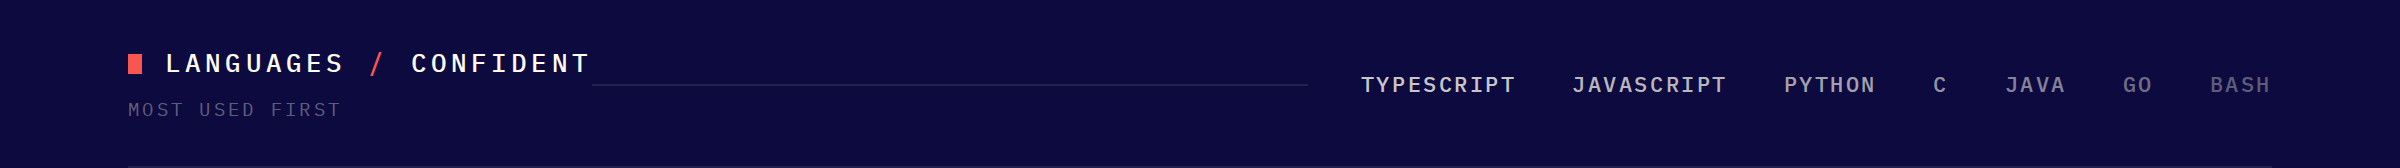
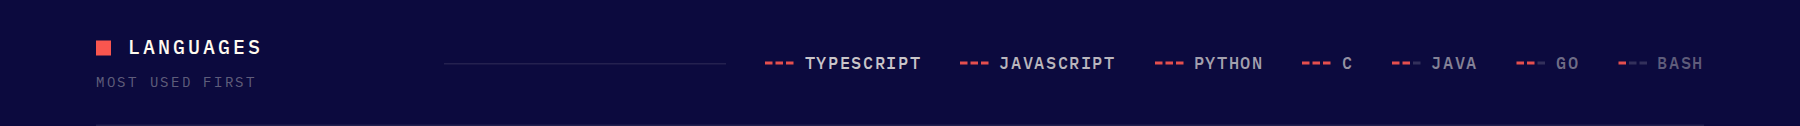
Scroll the stack in two rows and mark language levels

Changed region(s): [[0.4044, 0.4524, 0.9333, 0.5476], [0.0622, 0.3095, 0.2489, 0.4286], [0.0622, 0.5952, 0.1556, 0.6905]]

diff --git a/assets/readme/prototype/stats.py b/assets/readme/prototype/stats.py
@@ -1,15 +1,16 @@
 #!/usr/bin/env python3
 """Render the two data rails that sit between the header and the project
-plates: an animated technology strip and a language line counter.
+plates: a two-row technology marquee and a language line.
 
-The strip lays 24 technologies over four rows — web, data, infra and tools — and
-sends a slow diagonal scan across them. The icons are Simple Icons paths in the
-deck's coral; the scan only lifts their brightness. The language line reads the
-same pygount snapshot (loc.json) and shows only the names, in order of use, so it
-signals fluency without turning into a line-count contest.
+The strip runs 24 technologies through two full-width rows that scroll in
+opposite directions. The icons are Simple Icons paths in the deck's coral; there
+is no title, count or active state. The language line reads the same pygount
+snapshot (loc.json), keeps only the names in order of use, and puts a three-step
+meter beside each one.
 
-Both boards use the deck's ambient palette and type, render at 2x, and stack
-flush with the header and plates.
+Both boards use the deck's ambient palette and type, render high-density, and
+stack flush with the header and plates. The marquee is captured at 1.5x and
+downscaled to 900 × 126 so the loop stays under a megabyte.
 
     python3 assets/readme/prototype/stats.py
 """
@@ -29,7 +30,6 @@ BUILD = HERE.parent / ".build" / "stats"
 
 NAVY = "#0c0a3e"
 CORAL = "#f9564f"
-DEEP = "#dd453d"
 PAPER = "#fffaf0"
 
 TECH_ROWS = (
@@ -67,14 +67,29 @@ TECH_ROWS = (
     ),
 )
 
+ROW_TOP = TECH_ROWS[0] + TECH_ROWS[1]
+ROW_BOTTOM = TECH_ROWS[2] + TECH_ROWS[3]
+
 ICONS = json.loads((HERE / "tech-icons.json").read_text())
 
-FPS = 25
-COLS = 6
-CELLS = sum(len(row) for row in TECH_ROWS)
-FRAMES = 225
+FPS = 12.5
+LOOP_SECONDS = 10
+FRAMES = int(FPS * LOOP_SECONDS)
+SCALE = 1.5
+OUT_WIDTH = 900
+OUT_HEIGHT = 126
+COLORS = 32
 
 LANG_DISPLAY = {"Other": "Bash"}
+LANG_LEVELS = {
+    "TypeScript": 3,
+    "JavaScript": 3,
+    "Python": 3,
+    "C": 3,
+    "Java": 2,
+    "Go": 2,
+    "Bash": 1,
+}
 
 
 def font_faces() -> str:
@@ -95,17 +110,17 @@ def font_faces() -> str:
 """
 
 
-def cells_html() -> str:
-    cells = []
-    for row in TECH_ROWS:
-        for label, slug in row:
-            path = ICONS[slug]
-            cells.append(
-                '<div class="cell">'
-                f'<svg class="ico" viewBox="0 0 24 24" aria-hidden="true"><path d="{path}"/></svg>'
-                f'<span class="name">{label}</span></div>'
-            )
-    return "".join(cells)
+def marquee_items(row: tuple) -> str:
+    items = []
+    for label, slug in row:
+        path = ICONS[slug]
+        items.append(
+            '<div class="item">'
+            f'<svg class="ico" viewBox="0 0 24 24" aria-hidden="true"><path d="{path}"/></svg>'
+            f'<span class="name">{label}</span>'
+            '<span class="dot"></span></div>'
+        )
+    return "".join(items) * 2
 
 
 def strip_document() -> str:
@@ -117,89 +132,74 @@ body {{ width: 1200px; font-family: 'Plex Mono', monospace; -webkit-font-smoothi
 .strip {{
   position: relative;
   width: 1200px; height: 168px;
-  padding: 0 64px;
-  display: grid;
-  grid-template-columns: 232px minmax(0, 1fr);
-  align-items: center;
+  display: flex; flex-direction: column; justify-content: center;
+  gap: 24px;
+  overflow: hidden;
   background: {NAVY};
   color: {PAPER};
 }}
 .strip::after {{
   content: ''; position: absolute; left: 64px; right: 64px; bottom: 0;
-  height: 1px; background: rgba(255, 250, 240, 0.09);
+  height: 1px; background: rgba(255, 250, 240, 0.09); z-index: 3;
 }}
-.kicker {{
-  display: flex; align-items: center; gap: 11px;
-  font-size: 13px; font-weight: 500; letter-spacing: 0.16em;
-  text-transform: uppercase; color: {PAPER};
+.row {{ width: 100%; overflow: hidden; }}
+.track {{
+  display: flex; align-items: center;
+  width: max-content;
+  will-change: transform;
 }}
-.kicker .mark {{ width: 10px; height: 10px; background: {CORAL}; }}
-.kicker .slash {{ color: {CORAL}; }}
-.sub {{
-  margin-top: 9px;
-  font-size: 9.5px; letter-spacing: 0.12em; text-transform: uppercase;
-  color: rgba(255, 250, 240, 0.36);
-}}
-.grid {{
-  display: grid;
-  grid-template-columns: repeat(6, minmax(0, 1fr));
-  column-gap: 22px;
-  grid-auto-rows: 36px;
-}}
-.cell {{
-  position: relative;
-  display: flex; align-items: center; gap: 7px;
-  min-width: 0;
-  border-bottom: 1px solid rgba(255, 250, 240, 0.13);
+.item {{
+  display: flex; align-items: center; gap: 9px;
+  margin-right: 52px;
+  white-space: nowrap;
 }}
 .ico {{
   flex: none;
-  width: 18px; height: 18px;
+  width: 22px; height: 22px;
   fill: {CORAL};
-  opacity: 0.42;
-  will-change: opacity;
+  opacity: 0.9;
 }}
-.cell .name {{
-  overflow: hidden;
-  font-size: 11px; font-weight: 500; letter-spacing: 0.03em;
-  line-height: 1; text-transform: uppercase; white-space: nowrap;
+.name {{
+  font-size: 12px; font-weight: 500; letter-spacing: 0.05em;
+  line-height: 1; text-transform: uppercase;
   color: {PAPER};
-  opacity: 0.52;
+  opacity: 0.66;
 }}
+.dot {{ width: 3px; height: 3px; background: {CORAL}; opacity: 0.5; }}
+.fade {{
+  position: absolute; top: 0; bottom: 0; width: 140px; z-index: 2;
+  pointer-events: none;
+}}
+.fade.l {{ left: 0; background: linear-gradient(90deg, {NAVY} 0%, rgba(12, 10, 62, 0.9) 34%, rgba(12, 10, 62, 0) 100%); }}
+.fade.r {{ right: 0; background: linear-gradient(270deg, {NAVY} 0%, rgba(12, 10, 62, 0.9) 34%, rgba(12, 10, 62, 0) 100%); }}
 </style></head><body>
 <div class="strip">
-  <div class="pin">
-    <div class="kicker"><span class="mark"></span>Stack <span class="slash">/</span> Used</div>
-    <div class="sub">24 technologies · shipped</div>
-  </div>
-  <div class="grid">{cells_html()}</div>
+  <div class="row"><div class="track">{marquee_items(ROW_TOP)}</div></div>
+  <div class="row"><div class="track">{marquee_items(ROW_BOTTOM)}</div></div>
+  <div class="fade l"></div>
+  <div class="fade r"></div>
 </div>
 <script>
-const COLS = {COLS};
 const FRAMES = {FRAMES};
-const cells = Array.from(document.querySelectorAll('.cell'));
+const tracks = Array.from(document.querySelectorAll('.track'));
 function setFrame(frame) {{
   const t = frame / FRAMES;
-  const u = Math.min(1, t / 0.86);
-  const band = -1 + u * 9.5;
-  let env;
-  if (u < 0.12) env = u / 0.12;
-  else if (u > 0.88) env = (1 - u) / 0.12;
-  else env = 1;
-  cells.forEach((cell, i) => {{
-    const col = i % COLS;
-    const row = Math.floor(i / COLS);
-    const x = col + row * 0.6;
-    let prox = 1 - Math.abs(x - band) / 1.5;
-    prox = Math.max(0, Math.min(1, prox));
-    prox = prox * prox * (3 - 2 * prox);
-    const wave = Math.round(prox * env * 16) / 16;
-    const ico = cell.querySelector('.ico');
-    ico.style.opacity = (0.42 + 0.58 * wave).toFixed(3);
+  tracks.forEach((track, i) => {{
+    const half = track.getBoundingClientRect().width / 2;
+    const x = i === 0 ? -t * half : -half + t * half;
+    track.style.transform = `translate3d(${{x.toFixed(2)}}px, 0, 0)`;
   }});
 }}
 </script>
 </body></html>"""
+
+
+def meter(level: int) -> str:
+    ticks = "".join(
+        f'<span class="tick{" on" if i < level else ""}"></span>'
+        for i in range(3)
+    )
+    return f'<span class="meter">{ticks}</span>'
 
 
 def language_line(data: dict) -> str:
@@ -207,8 +207,10 @@ def language_line(data: dict) -> str:
     for i, entry in enumerate(data["languages"]):
         name = LANG_DISPLAY.get(entry["name"], entry["name"])
         alpha = max(0.34, 0.80 - i * 0.075)
+        level = LANG_LEVELS.get(name, 1)
         items.append(
-            f'<span class="lang" style="color:rgba(255,250,240,{alpha:.2f})">{name}</span>'
+            f'<span class="lang" style="color:rgba(255,250,240,{alpha:.2f})">'
+            f'{meter(level)}<span class="lname">{name}</span></span>'
         )
     return "".join(items)
 
@@ -239,7 +241,6 @@ body {{ width: 1200px; font-family: 'Plex Mono', monospace; -webkit-font-smoothi
   text-transform: uppercase; color: {PAPER};
 }}
 .kicker .mark {{ width: 10px; height: 10px; background: {CORAL}; }}
-.kicker .slash {{ color: {CORAL}; }}
 .sub {{
   margin-top: 8px;
   font-size: 9.5px; letter-spacing: 0.12em; text-transform: uppercase;
@@ -251,14 +252,19 @@ body {{ width: 1200px; font-family: 'Plex Mono', monospace; -webkit-font-smoothi
   background: rgba(255, 250, 240, 0.10);
 }}
 .lang {{
+  display: flex; align-items: center; gap: 7px;
   font-size: 11px; font-weight: 500; letter-spacing: 0.07em;
   line-height: 1; text-transform: uppercase; white-space: nowrap;
 }}
-.lang + .lang {{ margin-left: 28px; }}
+.lang + .lang {{ margin-left: 26px; }}
+.meter {{ display: inline-flex; align-items: center; gap: 2px; }}
+.tick {{ width: 5px; height: 2px; background: rgba(255, 250, 240, 0.16); }}
+.tick.on {{ background: {CORAL}; opacity: 0.92; }}
+.lname {{ line-height: 1; }}
 </style></head><body>
 <div class="line">
   <div class="pin">
-    <div class="kicker"><span class="mark"></span>Languages <span class="slash">/</span> Confident</div>
+    <div class="kicker"><span class="mark"></span>Languages</div>
     <div class="sub">most used first</div>
   </div>
   <div class="langs">{language_line(data)}</div>
@@ -289,11 +295,12 @@ def assemble_gif() -> None:
     out = HERE / "deck-stack.gif"
     palette = BUILD / "palette.png"
     frames = BUILD / "frames" / "frame-%03d.png"
+    scale = f"scale={OUT_WIDTH}:{OUT_HEIGHT}:flags=lanczos"
     subprocess.run(
         [
             "ffmpeg", "-y", "-loglevel", "error",
             "-framerate", str(FPS), "-i", str(frames),
-            "-vf", "palettegen=max_colors=64:stats_mode=diff",
+            "-vf", f"{scale},palettegen=max_colors={COLORS}:stats_mode=diff",
             str(palette),
         ],
         check=True,
@@ -302,7 +309,7 @@ def assemble_gif() -> None:
         [
             "ffmpeg", "-y", "-loglevel", "error",
             "-framerate", str(FPS), "-i", str(frames), "-i", str(palette),
-            "-lavfi", "paletteuse=dither=none:diff_mode=rectangle",
+            "-lavfi", f"{scale},paletteuse=dither=none:diff_mode=rectangle",
             "-loop", "0", str(out),
         ],
         check=True,
@@ -331,7 +338,7 @@ def main() -> None:
         browser = playwright.chromium.launch()
         page = browser.new_page(
             viewport={"width": 1200, "height": 168},
-            device_scale_factor=2,
+            device_scale_factor=SCALE,
         )
         render_strip(page)
         assemble_gif()

diff --git a/README.md b/README.md
@@ -1,3 +1,3 @@
 <!-- Private review: the full image-only deck with a custom flat illustration on every project card. A live stack strip and a quiet language line sit between the header and the plates. The Space card shows the seeded height field and core sample; born2beroot shows a VM window on a hypervisor host. The public profile is untouched. -->
 
-<p align="center"><a href="https://github.com/edouwarden" title="Edouard Normand on GitHub"><img align="top" src="assets/readme/00-header.png" width="100%" alt="Edouard Normand — software engineer at 42 Paris. I build systems end to end: bare metal, networks, engines, and AI agents. 13 years coding, 2,000+ players served, 214 peer reviews, €0 infra bill."></a><a href="https://github.com/edouwarden?tab=repositories" title="Stack used"><img align="top" src="assets/readme/prototype/deck-stack.gif" width="100%" alt="Stack used across the deck: Next.js, React, Three.js, Vite, Tailwind, Bun, Hono, Node.js, WordPress, Postgres, SQLite, MariaDB, Docker, Nginx, Linux, Debian, VirtualBox, OpenSSL, Let's Encrypt, Git, GitHub, GH Actions, npm and VS Code, lit by a slow diagonal scan."></a><a href="https://github.com/edouwarden?tab=repositories" title="Lines of code"><img align="top" src="assets/readme/prototype/deck-languages.png" width="100%" alt="Languages I'm confident in, most used first: TypeScript, JavaScript, Python, C, Java, Go and Bash."></a><a href="https://github.com/edouwarden/dynamic-dashboard" title="dynamic-dashboard on GitHub"><img align="top" src="assets/readme/prototype/plate-01.png" width="100%" alt="01 dynamic-dashboard, 2026, solo product and full stack: a local-first dashboard builder with isolated HTML widgets on one SQLite database, edited by an agent; 28 starter widgets, 6 example tabs, 1 shared DB; Bun, Hono, SQLite, Vanilla JS, OpenCode. Opens the repository."></a><a href="https://github.com/edouwarden/Transcendence-WebGameEngine" title="ft_transcendence on GitHub"><img align="top" src="assets/readme/prototype/plate-02.png" width="100%" alt="02 ft_transcendence, 2026, team of four, engine and platform: a browser game engine on Three.js with World, Environment and Module layers, physics, editors and live tools, running a parkour arena; 4 engine layers, 4 course maps, 20 Hz net tick; Next.js, Three.js, Rapier, Bun, Go, PostgreSQL. Opens the repository."></a><a href="https://github.com/edouwarden/space-gameserver-2019-psr" title="space-gameserver on GitHub"><img align="top" src="assets/readme/prototype/plate-03.png" width="100%" alt="03 space-gameserver, 2019, solo, systems and geometry: a Spigot sandbox whose space and exoplanet terrain comes from a seeded six-octave height field sampled into a core column, ships on an 11 by 11 orbital grid, and five weapon systems as closed-form geometry; 2,000+ members, 5 powers, 11 by 11 orbital slots; Java 8, Paper 1.14.4, WorldEdit, WorldGuard, Python. Opens the repository."></a><a href="https://github.com/edouwarden/minishell" title="minishell on GitHub"><img align="top" src="assets/readme/prototype/plate-04.png" width="100%" alt="04 minishell, 2025, pair, systems and parsing: a Unix shell with quote-aware lexing, expansion, heredocs and 64-stage pipelines, readline only; 3,000 lines of C, 64 pipe stages, 0 zombies; C99, POSIX, fork and exec, dup2, readline. Opens the repository."></a><a href="https://github.com/edouwarden/cube3D" title="cub3D on GitHub"><img align="top" src="assets/readme/prototype/plate-05.png" width="100%" alt="05 cub3D, 2025, pair, rendering and math: a hand-written raycast renderer with 640 rays per frame, textured walls floor to ceiling and every pixel written into an X11 buffer without a GPU; 640 rays per frame, 3 showcase maps, about 60 fps cap; C99, X11, raycasting, XPM, math. Opens the repository."></a><a href="https://github.com/edouwarden/irc" title="ft_irc on GitHub"><img align="top" src="assets/readme/prototype/plate-06.png" width="100%" alt="06 ft_irc, 2026, pair, protocols and systems: an IRC server on one thread and one poll loop with buffered TCP framing, channel modes and a local Phi-3 answering in #ai-lab; 1 thread, 1 poll loop, 3.8B local model; C++98, sockets, poll, llama.cpp. Opens the repository."></a><a href="https://github.com/edouwarden/inception" title="Inception on GitHub"><img align="top" src="assets/readme/prototype/plate-07.png" width="100%" alt="07 Inception, 2026, solo, containers and infrastructure: a WordPress stack where every part is a container, nginx holds TLS, PHP-FPM runs WordPress and MariaDB never leaves the compose network; 3 services, 1 open port, 4 secrets; Docker Compose, NGINX, WordPress, MariaDB, TLS. Opens the repository."></a><a href="https://github.com/edouwarden/born2beroot" title="born2beroot on GitHub"><img align="top" src="assets/readme/prototype/plate-08.png" width="100%" alt="08 born2beroot, 2024, solo, systems and hardening: a reproducible Debian VM running in a guest window on a VirtualBox host, built from a self-made ISO with LUKS under LVM, six filesystems, SSH on port 4242 and every sudo logged; 7 volumes, 1 open port, wall broadcast every 10 minutes; Debian, LUKS, LVM, UFW, systemd. Opens the repository."></a><a href="https://github.com/edouwarden" title="github.com/edouwarden"><img align="top" src="assets/readme/07-footer.png" width="100%" alt="Let's build something. Open to hard problems in Paris, France. github.com/edouwarden."></a></p>
+<p align="center"><a href="https://github.com/edouwarden" title="Edouard Normand on GitHub"><img align="top" src="assets/readme/00-header.png" width="100%" alt="Edouard Normand — software engineer at 42 Paris. I build systems end to end: bare metal, networks, engines, and AI agents. 13 years coding, 2,000+ players served, 214 peer reviews, €0 infra bill."></a><a href="https://github.com/edouwarden?tab=repositories" title="Stack used"><img align="top" src="assets/readme/prototype/deck-stack.gif" width="100%" alt="Stack used across the deck: Next.js, React, Three.js, Vite, Tailwind, Bun, Hono, Node.js, WordPress, Postgres, SQLite, MariaDB, Docker, Nginx, Linux, Debian, VirtualBox, OpenSSL, Let's Encrypt, Git, GitHub, GH Actions, npm and VS Code, in two rows scrolling in opposite directions."></a><a href="https://github.com/edouwarden?tab=repositories" title="Lines of code"><img align="top" src="assets/readme/prototype/deck-languages.png" width="100%" alt="Languages, most used first, each with a three-step level meter: TypeScript, JavaScript, Python, C, Java, Go and Bash."></a><a href="https://github.com/edouwarden/dynamic-dashboard" title="dynamic-dashboard on GitHub"><img align="top" src="assets/readme/prototype/plate-01.png" width="100%" alt="01 dynamic-dashboard, 2026, solo product and full stack: a local-first dashboard builder with isolated HTML widgets on one SQLite database, edited by an agent; 28 starter widgets, 6 example tabs, 1 shared DB; Bun, Hono, SQLite, Vanilla JS, OpenCode. Opens the repository."></a><a href="https://github.com/edouwarden/Transcendence-WebGameEngine" title="ft_transcendence on GitHub"><img align="top" src="assets/readme/prototype/plate-02.png" width="100%" alt="02 ft_transcendence, 2026, team of four, engine and platform: a browser game engine on Three.js with World, Environment and Module layers, physics, editors and live tools, running a parkour arena; 4 engine layers, 4 course maps, 20 Hz net tick; Next.js, Three.js, Rapier, Bun, Go, PostgreSQL. Opens the repository."></a><a href="https://github.com/edouwarden/space-gameserver-2019-psr" title="space-gameserver on GitHub"><img align="top" src="assets/readme/prototype/plate-03.png" width="100%" alt="03 space-gameserver, 2019, solo, systems and geometry: a Spigot sandbox whose space and exoplanet terrain comes from a seeded six-octave height field sampled into a core column, ships on an 11 by 11 orbital grid, and five weapon systems as closed-form geometry; 2,000+ members, 5 powers, 11 by 11 orbital slots; Java 8, Paper 1.14.4, WorldEdit, WorldGuard, Python. Opens the repository."></a><a href="https://github.com/edouwarden/minishell" title="minishell on GitHub"><img align="top" src="assets/readme/prototype/plate-04.png" width="100%" alt="04 minishell, 2025, pair, systems and parsing: a Unix shell with quote-aware lexing, expansion, heredocs and 64-stage pipelines, readline only; 3,000 lines of C, 64 pipe stages, 0 zombies; C99, POSIX, fork and exec, dup2, readline. Opens the repository."></a><a href="https://github.com/edouwarden/cube3D" title="cub3D on GitHub"><img align="top" src="assets/readme/prototype/plate-05.png" width="100%" alt="05 cub3D, 2025, pair, rendering and math: a hand-written raycast renderer with 640 rays per frame, textured walls floor to ceiling and every pixel written into an X11 buffer without a GPU; 640 rays per frame, 3 showcase maps, about 60 fps cap; C99, X11, raycasting, XPM, math. Opens the repository."></a><a href="https://github.com/edouwarden/irc" title="ft_irc on GitHub"><img align="top" src="assets/readme/prototype/plate-06.png" width="100%" alt="06 ft_irc, 2026, pair, protocols and systems: an IRC server on one thread and one poll loop with buffered TCP framing, channel modes and a local Phi-3 answering in #ai-lab; 1 thread, 1 poll loop, 3.8B local model; C++98, sockets, poll, llama.cpp. Opens the repository."></a><a href="https://github.com/edouwarden/inception" title="Inception on GitHub"><img align="top" src="assets/readme/prototype/plate-07.png" width="100%" alt="07 Inception, 2026, solo, containers and infrastructure: a WordPress stack where every part is a container, nginx holds TLS, PHP-FPM runs WordPress and MariaDB never leaves the compose network; 3 services, 1 open port, 4 secrets; Docker Compose, NGINX, WordPress, MariaDB, TLS. Opens the repository."></a><a href="https://github.com/edouwarden/born2beroot" title="born2beroot on GitHub"><img align="top" src="assets/readme/prototype/plate-08.png" width="100%" alt="08 born2beroot, 2024, solo, systems and hardening: a reproducible Debian VM running in a guest window on a VirtualBox host, built from a self-made ISO with LUKS under LVM, six filesystems, SSH on port 4242 and every sudo logged; 7 volumes, 1 open port, wall broadcast every 10 minutes; Debian, LUKS, LVM, UFW, systemd. Opens the repository."></a><a href="https://github.com/edouwarden" title="github.com/edouwarden"><img align="top" src="assets/readme/07-footer.png" width="100%" alt="Let's build something. Open to hard problems in Paris, France. github.com/edouwarden."></a></p>

diff --git a/assets/readme/prototype/README.md b/assets/readme/prototype/README.md
@@ -21,15 +21,15 @@ shows how the terrain is built, not a finished space scene.
 
 Between the header and the plates sit two deck-width strips:
 
-- `deck-stack.gif` — twenty-four technologies across four rows, all coral, lit
-  by a slow diagonal scan that passes over every cell. 2400 × 336, a nine-second
-  loop at 25 fps. Languages are left to the line below; this strip covers
-  frameworks, data, infra and tools.
+- `deck-stack.gif` — twenty-four technologies in two full-width rows that scroll
+  in opposite directions: web and data on top, infra and tools below. All icons
+  are coral, with a soft fade at both edges and no title or count. 900 × 126,
+  125 frames at 12.5 fps, ten-second seamless loop.
 - `deck-languages.png` — a slim language line, most used first: TypeScript,
-  JavaScript, Python, C, Java, Go and Bash. No totals, percentages or bars; it
-  only signals which languages the work is fluent in. `loc.json` is the
-  `pygount` snapshot behind the order, with HTML, CSS, JSON, YAML, Markdown,
-  lockfiles and generated data excluded.
+  JavaScript, Python, C, Java, Go and Bash. Each name carries a three-step meter
+  instead of a count; the line only signals depth, never totals or percentages.
+  `loc.json` is the `pygount` snapshot behind the order, with HTML, CSS, JSON,
+  YAML, Markdown, lockfiles and generated data excluded.
 
 ## What each project leads with
 
@@ -54,7 +54,8 @@ stat.
   fonts. HTML goes to the ignored `.build/` folder.
 - `plate-01.png`, `plate-02.png`, `plate-03.png`, `plate-04.png` … `plate-08.png`
   — the rendered plates.
-- `stats.py` — renders the animated stack strip and the language counter at 2x.
+- `stats.py` — renders the scrolling stack marquee and the language line at 2x,
+  downscaling the marquee to 900 × 126 for the GIF.
 - `tech-icons.json` — monochrome Simple Icons paths keyed by slug for the strip.
 - `loc.json` — the pygount snapshot: total, per-language lines, and exclusions.
 - `deck-stack.gif`, `deck-languages.png` — the two rendered data rails.
